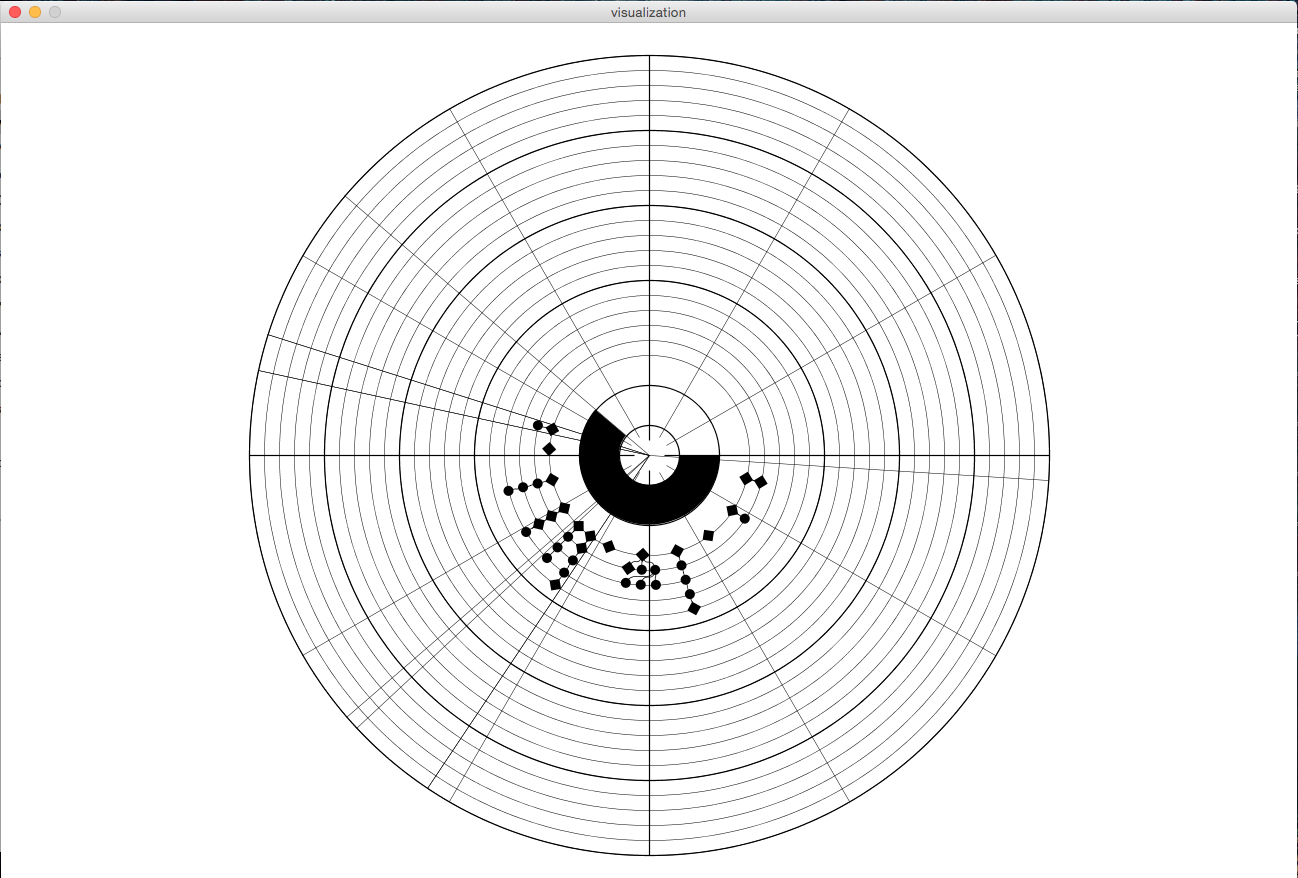
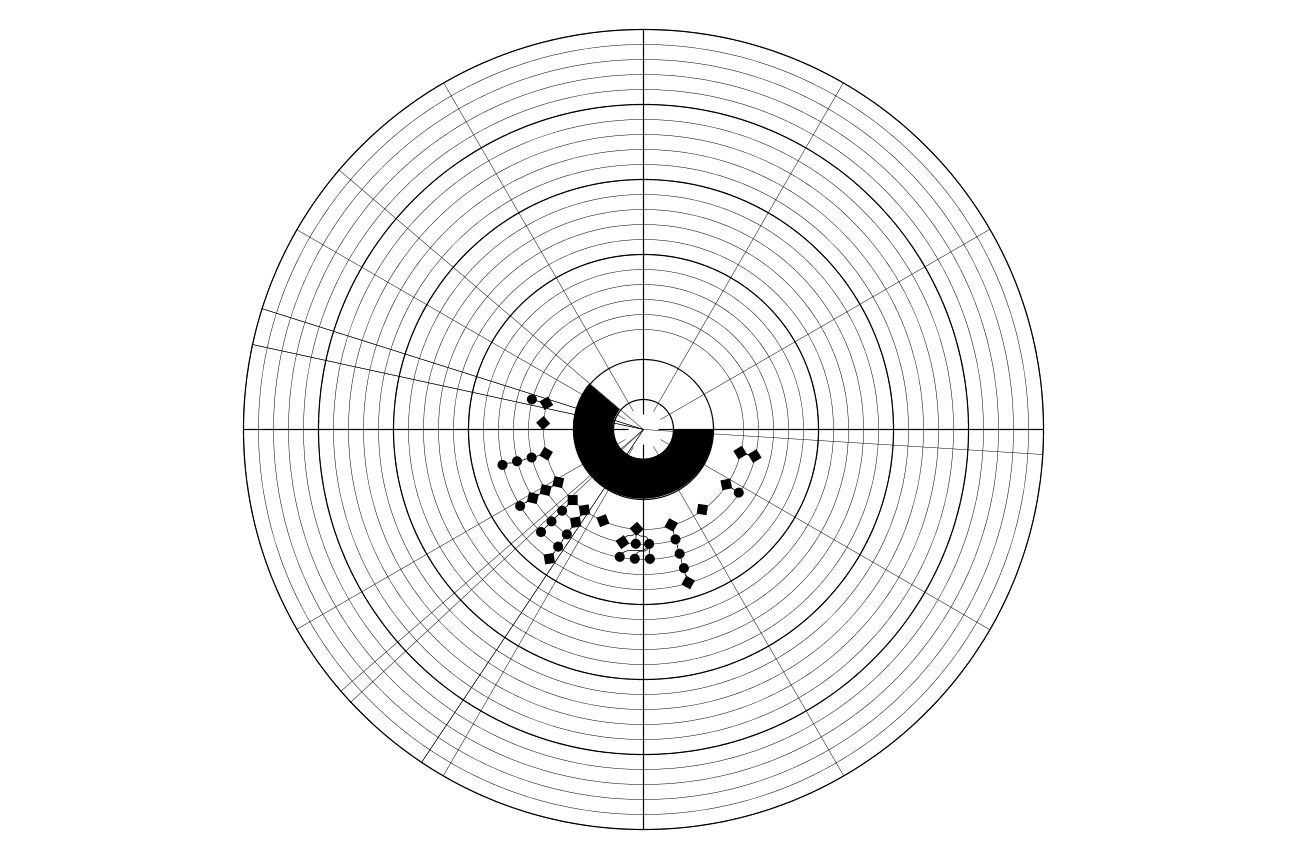
Cleaned up image by cropping it.
Updated readme.

Changed region(s): [[0.0, 0.0, 1.0, 1.0]]

diff --git a/readme.md b/readme.md
@@ -21,8 +21,8 @@ example but can be adjusted in the source.
 
 - Each circular node is a new page visit.
 - Each diamond node is a page visit reached via a search.
-- Each connecting line or edge between nodes represents visiting a link from another page
-- Each tab is divided by a separating line
+- Each connecting line or edge between nodes represents visiting a link from another page.
+- Each tab is divided by a separating line.
 
 ![graph](https://github.com/BeyondTheFold/Beyond-the-Fold/blob/master/Images/image-20.jpg)
 
